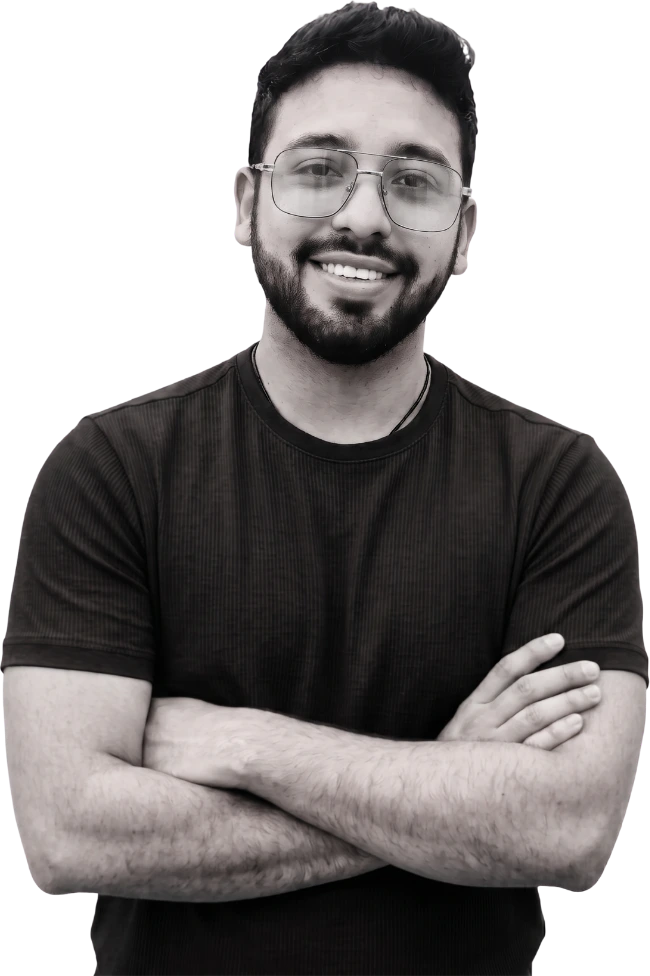
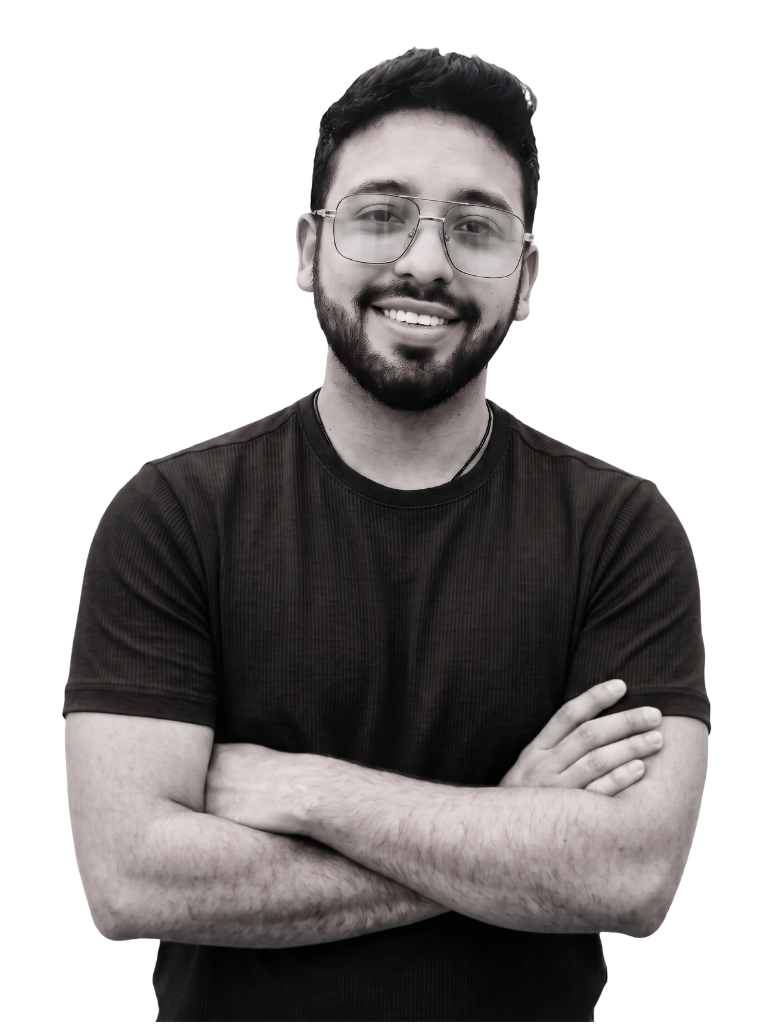
actualizacion de imagenes y vistar en ordenadores de diferentes tamaños

Changed region(s): [[0.0, 0.0, 1.0, 1.0], [0.6769, 0.7992, 0.7077, 0.8299], [0.3385, 0.9221, 0.3692, 0.9529]]

diff --git a/index.html b/index.html
@@ -69,7 +69,7 @@
 <div class="Escenario">
 <p class="Gigante" aria-hidden="true"><span class="Palabragigante Rojo" data-ref="Titulo.Inicio">DEVELOPER</span></p>
 <p class="Gigante Reflejo" aria-hidden="true"><span class="Palabragigante Rojo">DEVELOPER</span></p>
-<img class="Retrato" src="imagenes/retrato-inicio.webp" alt="Retrato en blanco y negro de Jorge David Perdomo, con lentes y camiseta negra, de brazos cruzados" width="650" height="976" itemprop="image" draggable="false">
+<img class="Retrato" src="imagenes/retrato-inicio.webp" alt="Retrato en blanco y negro de Jorge David Perdomo, con lentes y camiseta negra, de brazos cruzados" width="765" height="1024" itemprop="image" draggable="false">
 <div class="Saludo">
 <h1 id="Tituloinicio" class="Titulosaludo"><span class="Hola Entra" style="--Orden: 0">Hola,</span><span class="Soy Entra" style="--Orden: 1">soy <span itemprop="givenName">Jorge</span></span><span class="Ocultovisual"> David Perdomo</span></h1>
 <p class="Dato Datosaludo Entra" style="--Orden: 2">Bogotá, Colombia</p>
@@ -102,7 +102,7 @@
 </template>
 
 <template data-si="Ver.Habilidades">
-<section data-at-class="[[Clases.Pantalla]]" style="--Tamano: min(12.4vw, 240px)" aria-labelledby="Titulohabilidades">
+<section data-at-class="[[Clases.Pantalla]]" style="--Tamano: min(12.4vw, 190px)" aria-labelledby="Titulohabilidades">
 <div class="Contenedor">
 <h2 id="Titulohabilidades" class="Titulogigante"><span class="Palabragigante Tinta" data-ref="Titulo.Habilidades">habilidades</span></h2>
 <div class="Eco" aria-hidden="true"><span>habilidades</span><span>habilidades</span></div>
@@ -137,7 +137,7 @@
 </template>
 
 <template data-si="Ver.Experiencia">
-<section data-at-class="[[Clases.Pantalla]]" style="--Tamano: min(12.4vw, 240px)" aria-labelledby="Tituloexperiencia">
+<section data-at-class="[[Clases.Pantalla]]" style="--Tamano: min(12.4vw, 190px)" aria-labelledby="Tituloexperiencia">
 <div class="Contenedor">
 <h2 id="Tituloexperiencia" class="Titulogigante"><span class="Palabragigante Tinta" data-ref="Titulo.Experiencia">experiencia</span></h2>
 <div class="Eco" aria-hidden="true"><span>experiencia</span><span>experiencia</span></div>
@@ -197,7 +197,7 @@
 </template>
 
 <template data-si="Ver.Conoceme">
-<section data-at-class="[[Clases.Pantalla]]" style="--Tamano: min(14.4vw, 240px)" aria-labelledby="Tituloconoceme">
+<section data-at-class="[[Clases.Pantalla]]" style="--Tamano: min(14.4vw, 220px)" aria-labelledby="Tituloconoceme">
 <div class="Contenedor">
 <h2 id="Tituloconoceme" class="Titulogigante"><span class="Palabragigante Tinta" data-ref="Titulo.Conoceme">conóceme</span></h2>
 <div class="Eco" aria-hidden="true"><span>conóceme</span><span>conóceme</span></div>
@@ -205,10 +205,8 @@
 <div class="Conocemerejilla" style="margin-top: clamp(32px, 5vw, 72px)">
 <figure class="Composicion Entra">
 <span class="Circulorojo" aria-hidden="true"></span>
-<svg class="Arcos" viewBox="0 0 560 605" preserveAspectRatio="none" aria-hidden="true"><path d="M70 600 A 330 330 0 0 1 560 196" fill="none" stroke="var(--Coloracento)" stroke-width="1"></path><path d="M30 600 A 380 380 0 0 1 560 150" fill="none" stroke="var(--Coloracento)" stroke-width="1" stroke-opacity=".7"></path><path d="M-6 600 A 430 430 0 0 1 560 104" fill="none" stroke="var(--Coloracento)" stroke-width="1" stroke-opacity=".45"></path></svg>
 <div class="Retratocirculo"><img src="imagenes/retrato-conoceme.webp" alt="Retrato de Jorge David Perdomo con lentes y camisa oscura" width="1000" height="1000" draggable="false"></div>
 <figcaption class="Firma"><span class="Nombrefirma">Jorge David Perdomo</span><span class="Rolfirma">Desarrollador Full Stack &amp; Support</span></figcaption>
-<svg class="Flechafirma" viewBox="0 0 140 120" aria-hidden="true"><path d="M22 4 C 8 40, 18 86, 132 112" fill="none" stroke="var(--Coloracento)" stroke-width="1.6" stroke-linecap="round"></path><path d="M120 104 L 133 112 L 119 118" fill="none" stroke="var(--Coloracento)" stroke-width="1.6" stroke-linecap="round" stroke-linejoin="round"></path></svg>
 </figure>
 <div class="Textoconoceme">
 <p class="Subtitulo Entra" style="--Orden: 1">Sobre mí</p>
@@ -282,7 +280,7 @@
 </template>
 
 <template data-si="Ver.Neon">
-<section data-at-class="[[Clases.Pantalla]]" style="--Tamano: min(14.1vw, 240px)" aria-labelledby="Tituloneon">
+<section data-at-class="[[Clases.Pantalla]]" style="--Tamano: min(14.1vw, 216px)" aria-labelledby="Tituloneon">
 <div class="Contenedor">
 <div class="Cabeceraproyecto">
 <h2 id="Tituloneon" class="Titulogigante"><span class="Palabragigante Tinta" data-ref="Titulo.Neon">Neon Jump</span></h2>
@@ -331,7 +329,7 @@
 </template>
 
 <template data-si="Ver.Moderador">
-<section data-at-class="[[Clases.Pantalla]]" style="--Tamano: min(12.8vw, 240px)" aria-labelledby="Titulomoderador">
+<section data-at-class="[[Clases.Pantalla]]" style="--Tamano: min(12.8vw, 195px)" aria-labelledby="Titulomoderador">
 <div class="Contenedor">
 <div class="Cabeceraproyecto">
 <h2 id="Titulomoderador" class="Titulogigante"><span class="Ocultovisual">Sónica </span><span class="Palabragigante Tinta" data-ref="Titulo.Moderador">Moderador</span></h2>

diff --git a/estilos.css b/estilos.css
@@ -1,4 +1,4 @@
-/* ==========================================================================
+/* ==========================================================================
    Tokens globales, normalización, tipografía y componentes base
    ========================================================================== */
 
@@ -116,12 +116,12 @@ button { font: inherit; color: inherit; }
 .Enlacemovil.Secundario { font-family: var(--Tipomono); font-size: 13px; font-weight: 400; letter-spacing: 0.1em; text-transform: uppercase; }
 
 /* Palabras gigantes */
-.Palabragigante { display: inline-block; padding-top: 0.17em; text-transform: uppercase; font-family: var(--Tipogigante); font-size: calc(var(--Tamano) * var(--Escalatitulo, 1)); font-weight: 820; font-stretch: 100%; line-height: 0.8; letter-spacing: -0.04em; white-space: nowrap; color: var(--Colortinta); }
-.Palabragigante.Rojo { font-size: var(--Tamanonombre); font-weight: 900; font-stretch: 62%; line-height: 0.74; letter-spacing: 0; transform: scaleY(var(--Estiramiento)); transform-origin: 50% 0; background: var(--Granotinta) 0 0 / 256px 256px repeat, linear-gradient(180deg, var(--Coloracento) 18%, var(--Colorrojohondo) 100%); -webkit-background-clip: text; background-clip: text; color: transparent; -webkit-text-fill-color: transparent; }
+.Palabragigante { display: inline-block; padding-top: 0.17em; text-transform: uppercase; font-family: var(--Tipogigante); font-size: calc(var(--Tamano) * var(--Escalatitulo, 1)); font-weight: 820; font-stretch: 100%; line-height: 0.8; letter-spacing: -0.04em; white-space: nowrap; color: var(--Colortinta); text-rendering: geometricPrecision; transform: translateZ(0); }
+.Palabragigante.Rojo { font-size: var(--Tamanonombre); font-weight: 900; font-stretch: 62%; line-height: 0.74; letter-spacing: 0; transform: translateZ(0) scaleY(var(--Estiramiento)); transform-origin: 50% 0; background: var(--Granotinta) 0 0 / 256px 256px repeat, linear-gradient(180deg, var(--Coloracento) 18%, var(--Colorrojohondo) 100%); -webkit-background-clip: text; background-clip: text; color: transparent; -webkit-text-fill-color: transparent; }
 .Palabragigante.Tinta { background: var(--Granotinta) 0 0 / 256px 256px repeat, linear-gradient(180deg, var(--Colortinta) 46%, var(--Colorrojohondo) 78%, var(--Coloracento) 100%); -webkit-background-clip: text; background-clip: text; color: transparent; -webkit-text-fill-color: transparent; }
-.Titulogigante { position: relative; z-index: 1; margin: calc(var(--Tamano, 0px) * var(--Escalatitulo, 1) * -0.17) 0 0; text-align: center; }
+.Titulogigante { position: relative; z-index: 1; display: grid; justify-items: center; margin: calc(var(--Tamano, 0px) * var(--Escalatitulo, 1) * -0.17) 0 0; text-align: center; }
 .Eco { display: grid; justify-items: center; margin-top: calc(var(--Tamano) * var(--Escalatitulo, 1) * -0.02); pointer-events: none; user-select: none; }
-.Eco > span { display: block; text-transform: uppercase; height: calc(var(--Tamano) * var(--Escalatitulo, 1) * 0.36); overflow: hidden; font-family: var(--Tipogigante); font-size: calc(var(--Tamano) * var(--Escalatitulo, 1)); font-weight: 820; font-stretch: 100%; line-height: 0.8; letter-spacing: -0.04em; white-space: nowrap; color: transparent; -webkit-text-stroke: 1.2px var(--Colortinta); animation: Eco 760ms var(--Facil) both; }
+.Eco > span { display: block; text-transform: uppercase; height: calc(var(--Tamano) * var(--Escalatitulo, 1) * 0.36); overflow: hidden; font-family: var(--Tipogigante); font-size: calc(var(--Tamano) * var(--Escalatitulo, 1)); font-weight: 820; font-stretch: 100%; line-height: 0.8; letter-spacing: -0.04em; white-space: nowrap; color: transparent; -webkit-text-stroke: 1.2px var(--Colortinta); text-rendering: geometricPrecision; transform: translateZ(0); animation: Eco 760ms var(--Facil) both; }
 .Eco > span:nth-child(1) { opacity: 0.38; animation-delay: 980ms; }
 .Eco > span:nth-child(2) { opacity: 0.14; animation-delay: 1080ms; }
 

diff --git a/estilos/Secciones.css b/estilos/Secciones.css
@@ -182,96 +182,79 @@
 
 .Composicion {
   position: relative;
-  width: min(100%, 500px);
-  aspect-ratio: 1 / 1.04;
+  width: min(100%, 460px);
+  aspect-ratio: 1 / 1.15;
   margin: 0 auto;
+  display: flex;
+  flex-direction: column;
+  align-items: center;
+  justify-content: flex-end;
 }
 
 .Circulorojo {
   position: absolute;
-  left: 27%;
-  top: 25%;
-  width: 70%;
+  left: 50%;
+  top: 42%;
+  transform: translate(-50%, -50%);
+  width: 78%;
   aspect-ratio: 1;
   border-radius: 50%;
-  background: var(--Coloracento);
-}
-
-.Arcos {
-  position: absolute;
-  inset: 0;
-  width: 100%;
-  height: 100%;
-  overflow: visible;
+  background: radial-gradient(circle at 35% 35%, #c42020 0%, #851010 100%);
+  box-shadow: 0 24px 50px -15px rgba(181, 26, 26, 0.45), 0 0 0 1px rgba(181, 26, 26, 0.2);
+  z-index: 1;
 }
 
 .Retratocirculo {
   position: absolute;
-  left: 15%;
-  top: 14%;
-  z-index: 1;
-  width: 70%;
-  aspect-ratio: 1;
-  border-radius: 50%;
-  overflow: hidden;
-  background: radial-gradient(circle at 50% 42%, var(--Colorpapelclaro) 0%, var(--Colorpapelhondo) 100%);
-  border: 2px solid var(--Colorpapelclaro);
-  box-shadow: var(--Sombrapapel), 0 18px 36px -14px rgba(13, 13, 13, 0.35);
+  inset: 0;
+  width: 100%;
+  height: 100%;
+  z-index: 2;
+  overflow: visible;
 }
 
 .Retratocirculo img {
   display: block;
   width: 100%;
   height: 100%;
-  object-fit: cover;
-  object-position: center 22%;
-  filter: grayscale(1) contrast(1.06);
+  object-fit: contain;
+  object-position: center bottom;
+  filter: drop-shadow(0 20px 30px rgba(13, 13, 13, 0.22)) contrast(1.04);
 }
 
 .Firma {
-  position: absolute;
-  left: -4%;
-  top: 2%;
-  z-index: 3;
-  display: inline-flex;
+  position: relative;
+  z-index: 4;
+  display: flex;
   flex-direction: column;
+  align-items: center;
+  text-align: center;
   gap: 3px;
-  max-width: min(65%, 280px);
-  padding: 10px 14px;
-  border-radius: 10px;
-  background: rgba(233, 233, 230, 0.94);
-  -webkit-backdrop-filter: blur(8px);
-  backdrop-filter: blur(8px);
-  border: 1px solid var(--Colorlineafuerte);
-  box-shadow: var(--Sombrapapel), 0 8px 20px -6px rgba(13, 13, 13, 0.2);
+  padding: 10px 22px;
+  border-radius: 14px;
+  background: rgba(246, 245, 241, 0.94);
+  -webkit-backdrop-filter: blur(14px);
+  backdrop-filter: blur(14px);
+  border: 1px solid rgba(13, 13, 13, 0.12);
+  box-shadow: 0 14px 28px -8px rgba(13, 13, 13, 0.16), 0 2px 6px rgba(13, 13, 13, 0.05);
+  margin-bottom: -10px;
+  max-width: 92%;
 }
 
 .Nombrefirma {
   font-family: var(--Tipogigante);
-  font-size: clamp(20px, 1.9vw, 28px);
+  font-size: clamp(20px, 1.8vw, 24px);
   font-weight: 800;
-  font-stretch: 100%;
-  line-height: 1.05;
   color: var(--Coloracento);
+  line-height: 1.1;
 }
 
 .Rolfirma {
   font-family: var(--Tiposerif);
   font-style: italic;
-  font-size: clamp(17px, 1.5vw, 22px);
-  line-height: 1.15;
+  font-size: clamp(15px, 1.3vw, 17px);
   color: var(--Colortinta);
-}
-
-.Flechafirma {
-  position: absolute;
-  left: 14%;
-  top: 23%;
-  z-index: 2;
-  width: 14%;
-  height: auto;
-  overflow: visible;
-  pointer-events: none;
+  line-height: 1.2;
 }
 
 .Textoconoceme {

diff --git a/logica/Datosportafolio.js b/logica/Datosportafolio.js
@@ -4,12 +4,12 @@
 
   var Titulos = {
     Inicio: { Texto: 'DEVELOPER', Clase: 'Palabragigante Rojo', Tamano: '' },
-    Habilidades: { Texto: 'habilidades', Clase: 'Palabragigante Tinta', Tamano: 'min(12.4vw, 240px)' },
-    Experiencia: { Texto: 'experiencia', Clase: 'Palabragigante Tinta', Tamano: 'min(12.4vw, 240px)' },
-    Conoceme: { Texto: 'conóceme', Clase: 'Palabragigante Tinta', Tamano: 'min(14.4vw, 240px)' },
+    Habilidades: { Texto: 'habilidades', Clase: 'Palabragigante Tinta', Tamano: 'min(12.4vw, 190px)' },
+    Experiencia: { Texto: 'experiencia', Clase: 'Palabragigante Tinta', Tamano: 'min(12.4vw, 190px)' },
+    Conoceme: { Texto: 'conóceme', Clase: 'Palabragigante Tinta', Tamano: 'min(14.4vw, 220px)' },
     Sonica: { Texto: 'Sónica', Clase: 'Palabragigante Tinta', Tamano: 'min(21.2vw, 240px)' },
-    Neon: { Texto: 'Neon Jump', Clase: 'Palabragigante Tinta', Tamano: 'min(14.1vw, 240px)' },
-    Moderador: { Texto: 'Moderador', Clase: 'Palabragigante Tinta', Tamano: 'min(12.8vw, 240px)' }
+    Neon: { Texto: 'Neon Jump', Clase: 'Palabragigante Tinta', Tamano: 'min(14.1vw, 216px)' },
+    Moderador: { Texto: 'Moderador', Clase: 'Palabragigante Tinta', Tamano: 'min(12.8vw, 195px)' }
   };
 
   var Tarjetas = [

diff --git a/estilos/Adaptable.css b/estilos/Adaptable.css
@@ -25,11 +25,10 @@
   .Hito { grid-template-columns: minmax(0, 1fr); gap: 4px; }
   .Periodo { grid-row: auto; padding-top: 0; }
   .Ficha { grid-template-columns: minmax(0, 1fr); }
-  .Firma { left: 0; top: 0; max-width: 78%; padding: 8px 12px; }
-  .Rolfirma { display: block; font-size: 15px; }
+  .Composicion { width: min(100%, 340px); aspect-ratio: 1 / 1.1; margin: 0 auto 20px auto; }
+  .Firma { margin-bottom: -6px; padding: 8px 18px; max-width: 95%; }
+  .Rolfirma { font-size: 14px; }
   .Nombrefirma { font-size: 19px; }
-  .Flechafirma { display: none; }
-  .Retratocirculo { left: 14%; top: 14%; width: 72%; }
   .Gracias { top: 96px; font-size: clamp(32px, 6vh, 50px); transform: none; }
   .Piellamada { display: none; }
   .Anios { left: auto; right: 72px; transform: none; font-size: 18px; }

diff --git a/estilos/Animaciones.css b/estilos/Animaciones.css
@@ -19,8 +19,8 @@
 
 /* Eco de títulos gigantes */
 @keyframes Eco {
-  from { transform: translateY(-40%); clip-path: inset(0 0 100% 0); }
-  to { transform: none; clip-path: inset(0 0 0 0); }
+  from { transform: translate3d(0, -40%, 0); clip-path: inset(0 0 100% 0); }
+  to { transform: translate3d(0, 0, 0); clip-path: inset(0 0 0 0); }
 }
 
 /* Rebanado horizontal al salir */
